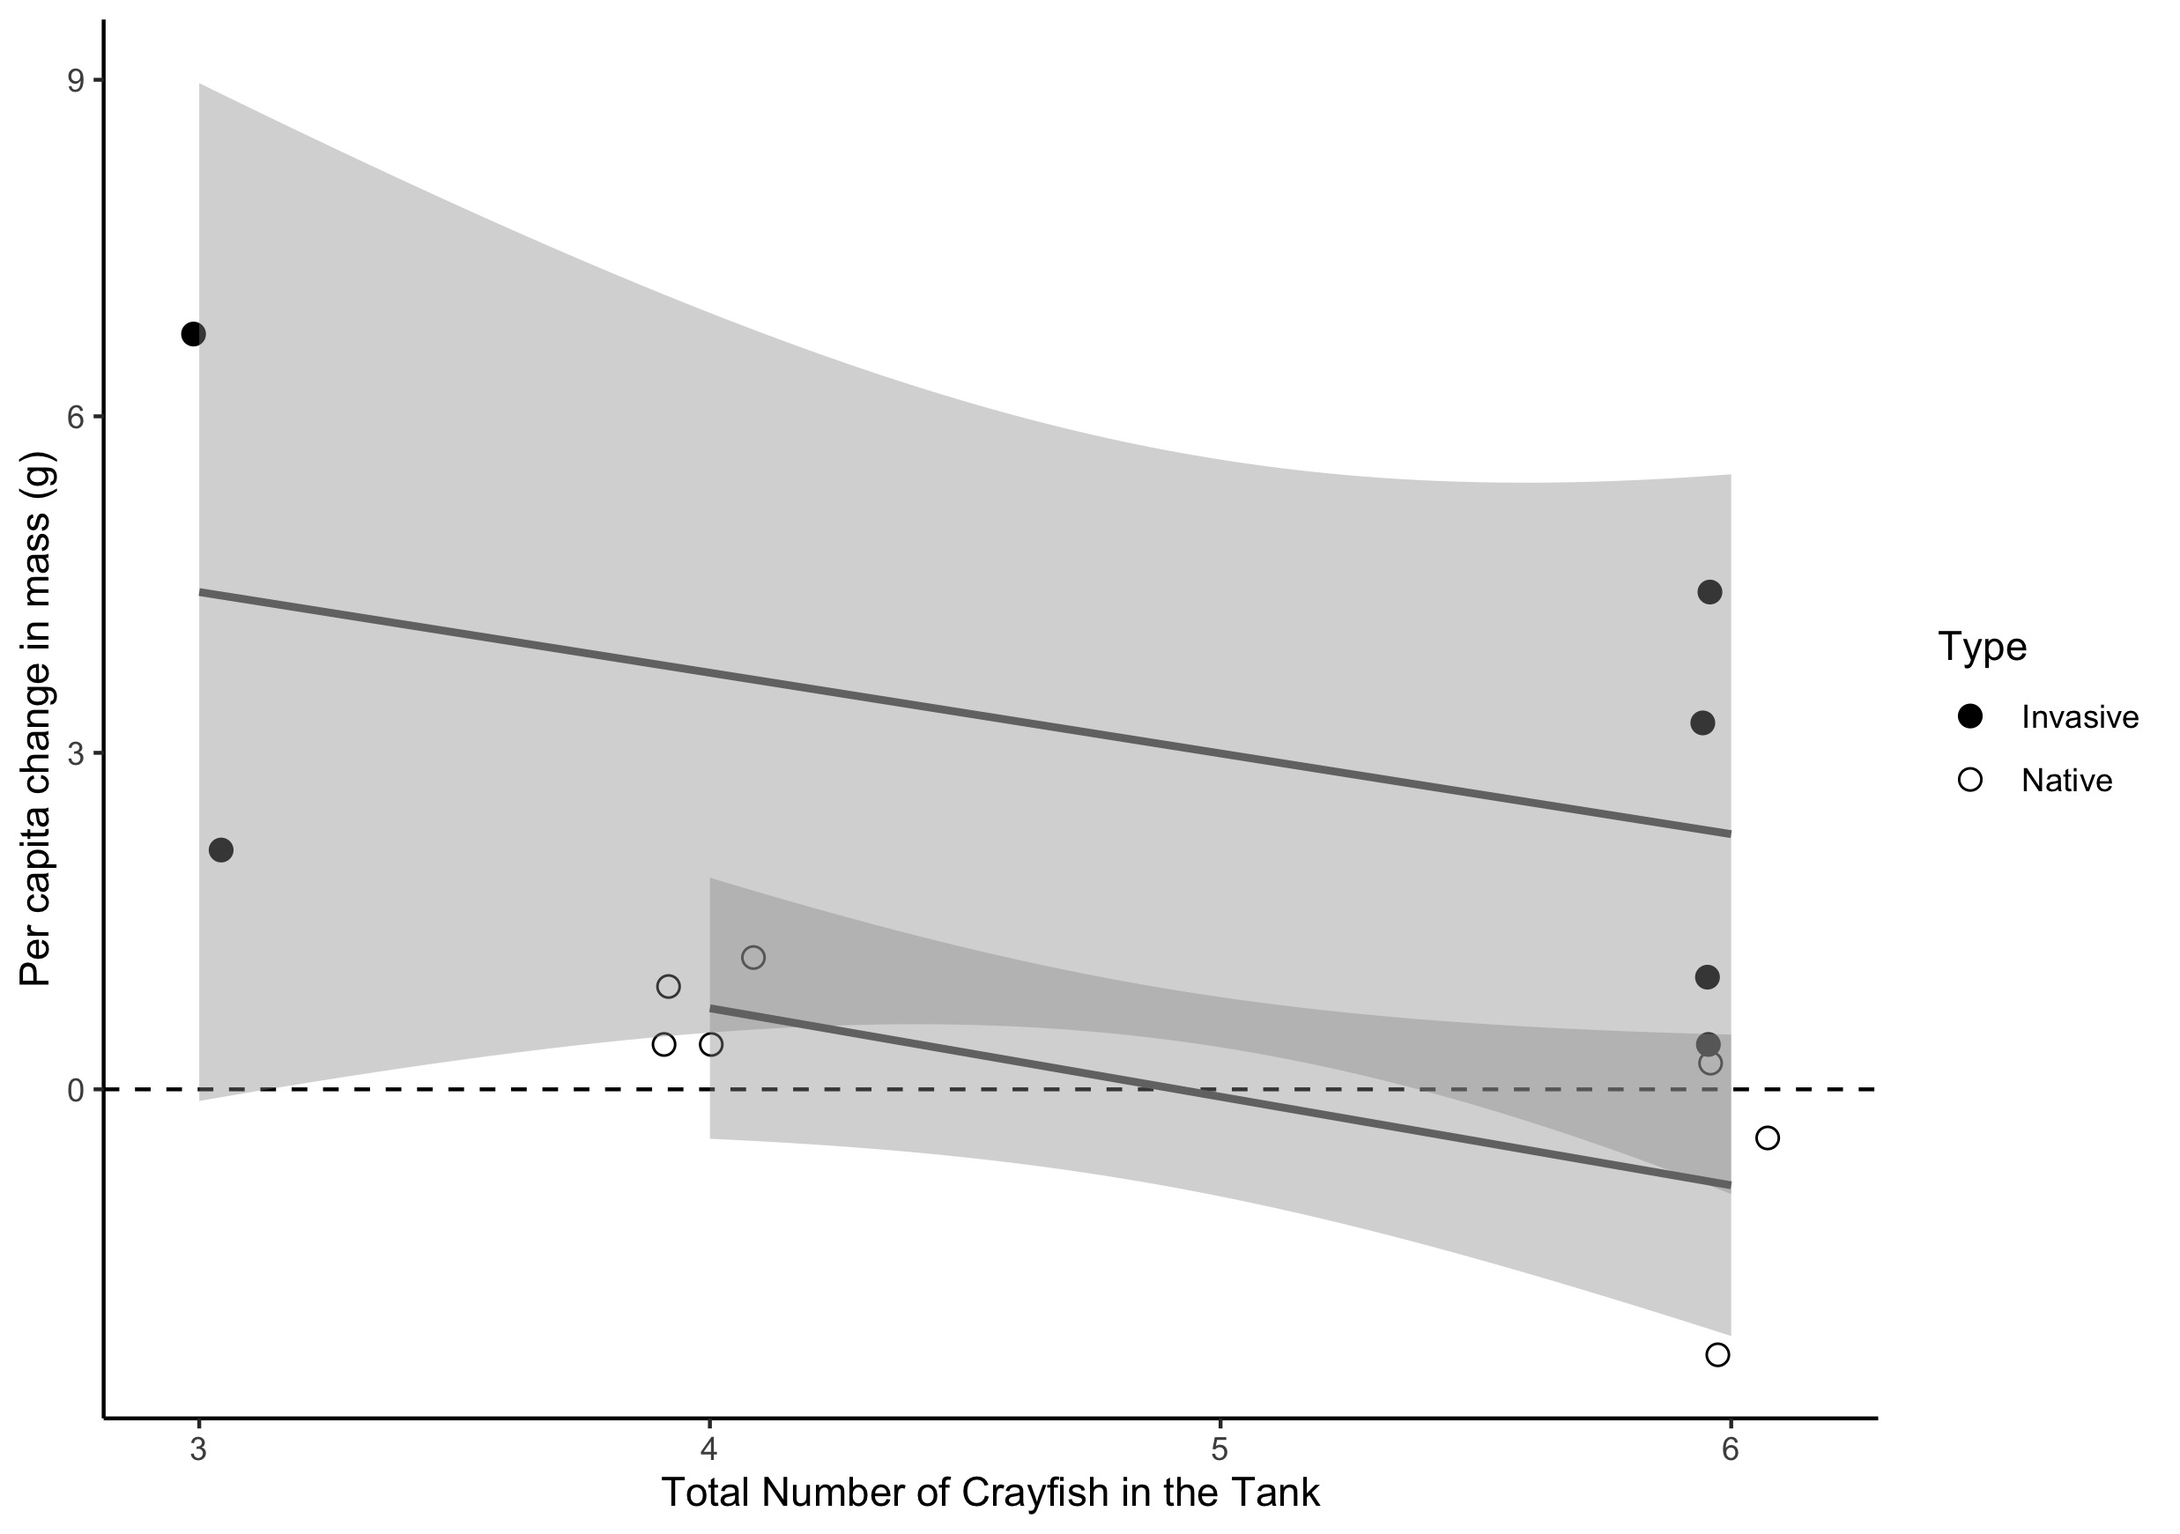
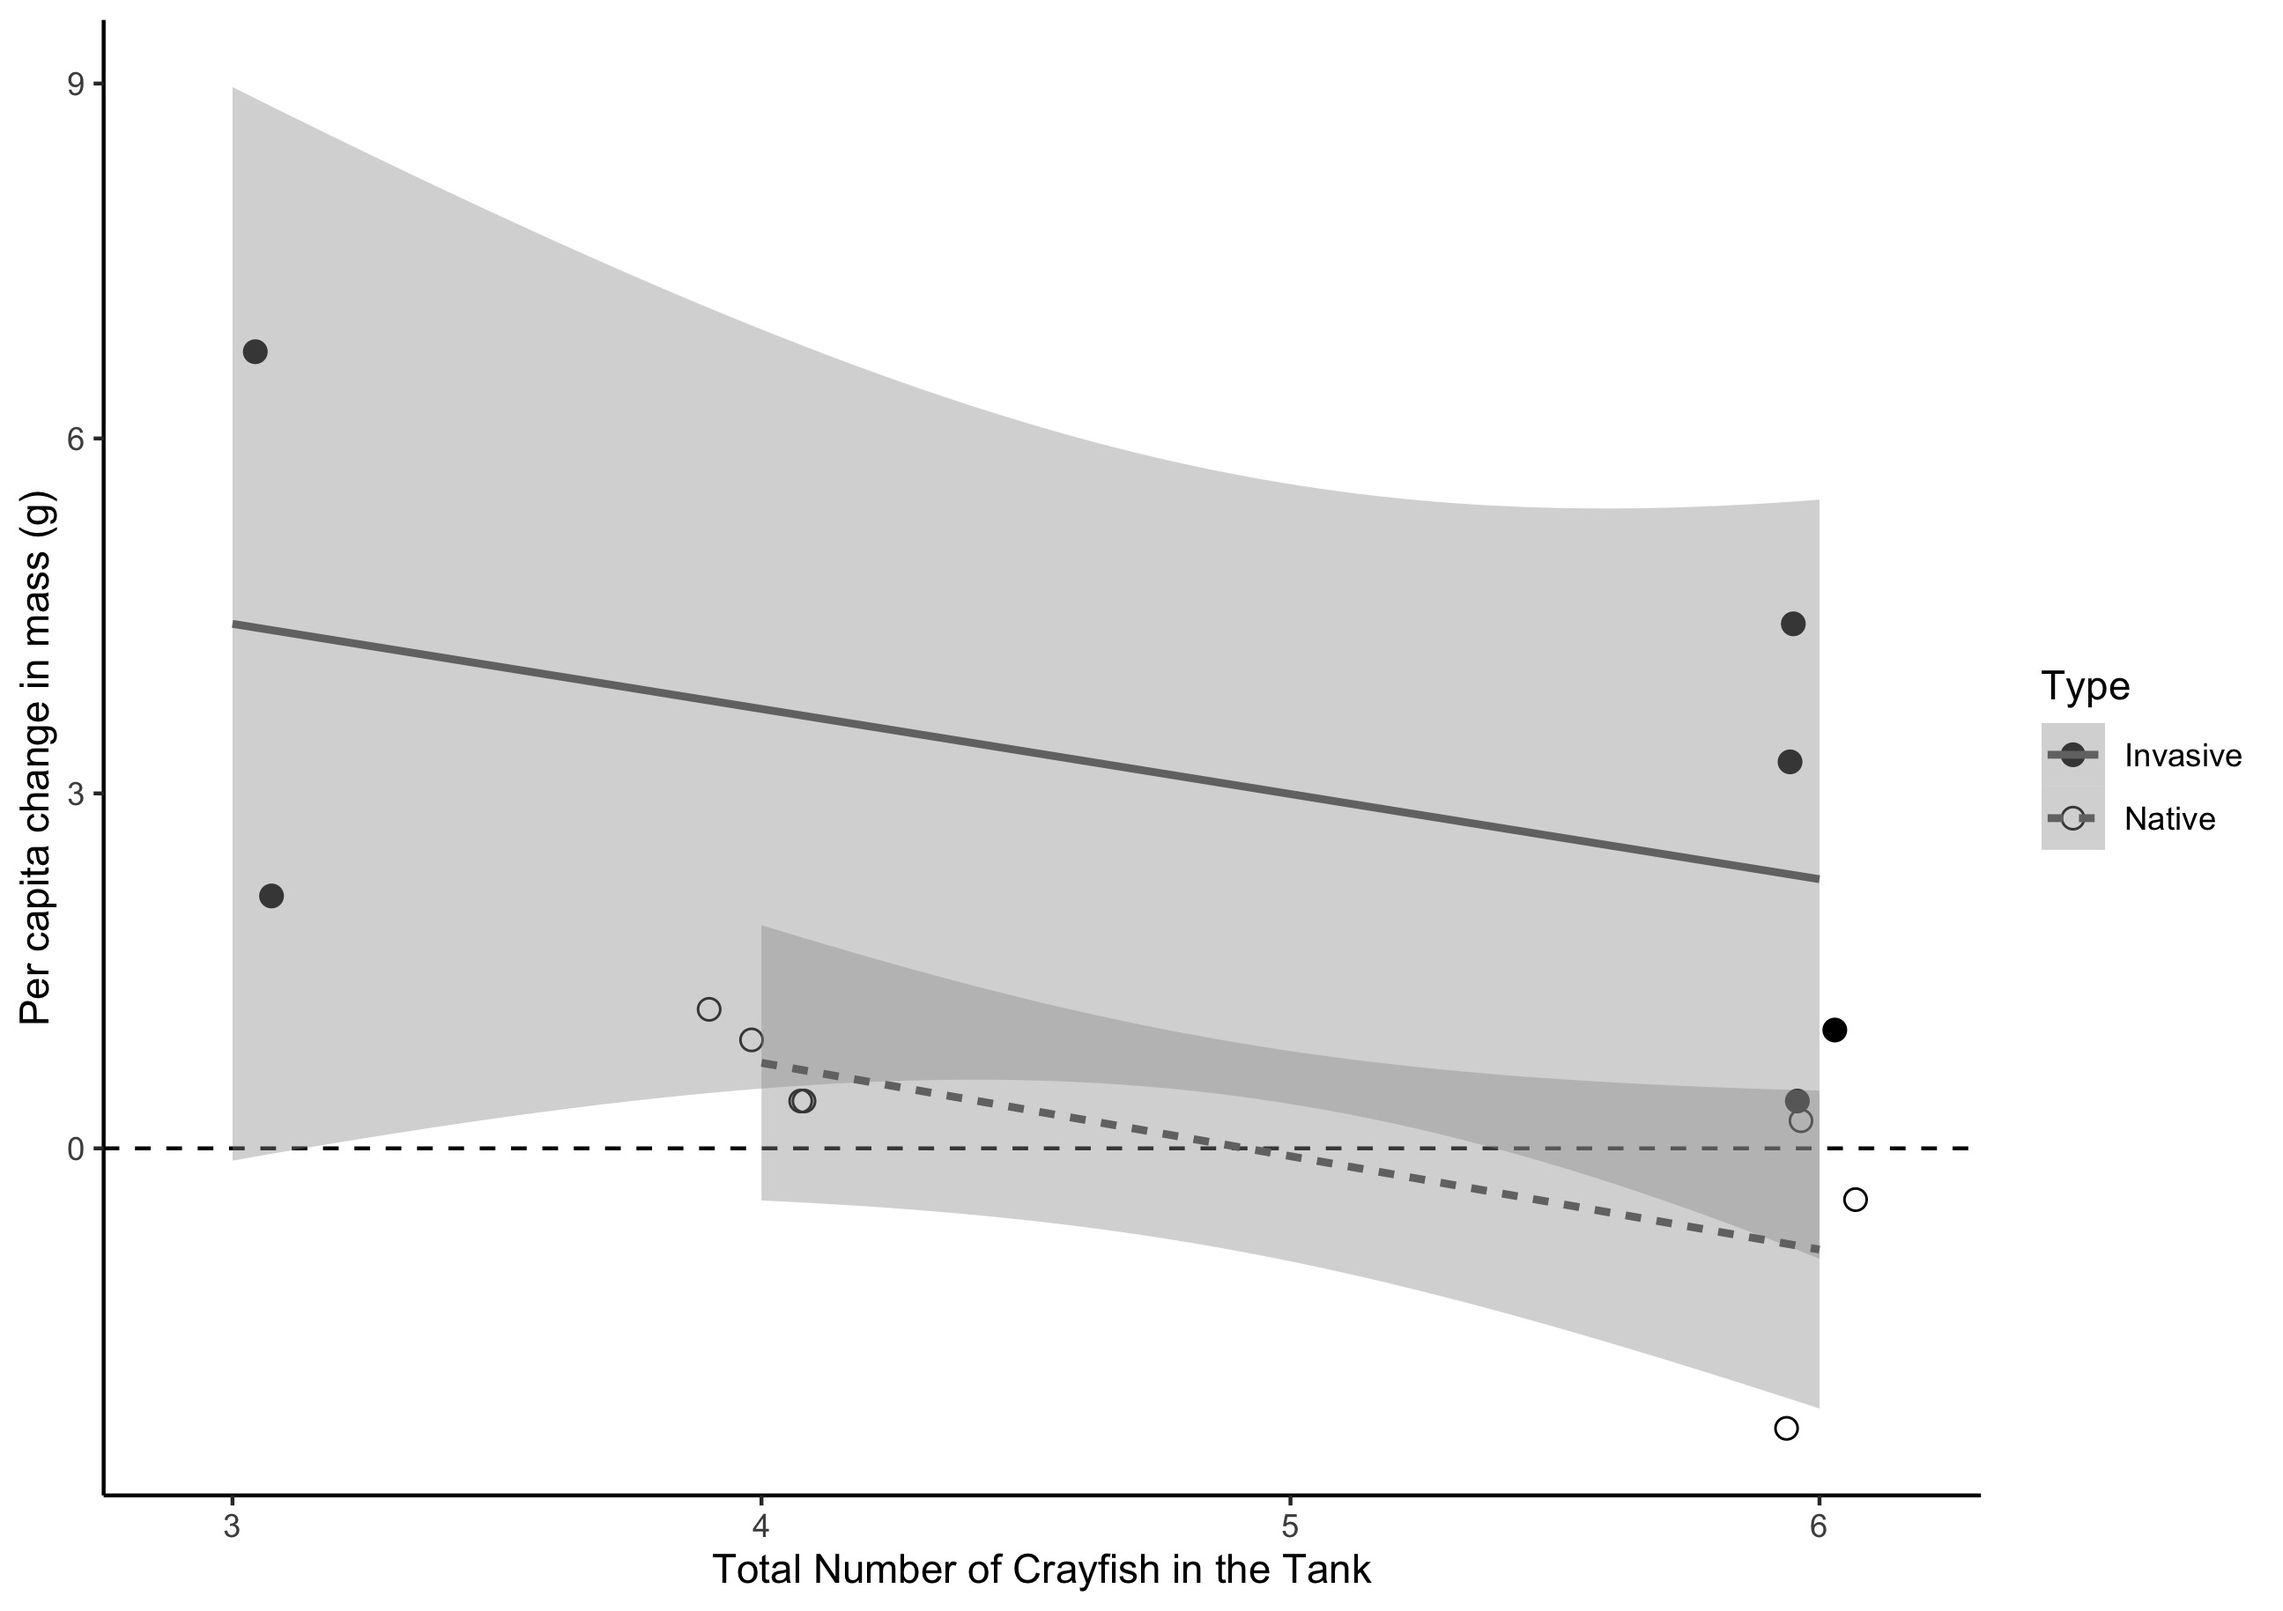
work on analysis

diff --git a/lab_notebook/analysis/crayfish_mass_change.md b/lab_notebook/analysis/crayfish_mass_change.md
@@ -374,7 +374,9 @@ The model uses the estimated change in per capita mass (`per.capita.delta.mass`)
     	mapping = aes(
     		y = per.capita.delta.mass,
     		x = Total.Abundance, 
-    		shape = Type)
+    		shape = Type,
+    		linetype = Type
+    		)
     	) +
     	   geom_hline(
     	     yintercept = 0,
@@ -458,13 +460,19 @@ The model uses the estimated change in per capita mass (`per.capita.delta.mass`)
     
 In the 2015 experiment there was no significant effect of the total abundance of crayfish in the tank at the end of the experiment on the per capita change in crayfish mass (p = 0.1724). The effect of total abundance was determined for the grand mean of all crayfish but the lack of a significant interaction (p = 0.9533) indicates that the two species did not differ in their response to the total abundance of crayfish.
 
-The mean (+/- 1 SD) estimated change in mass of a single invasive crayfish was 2.99 (+/- 2.35) g, while the mean estimated change in mass of a single native crayfish was only 0.05 (+/- 1.18) g. However the difference was not significant (p = 0.4192) so we do not have evidence that the invasive grew more than the native in the 2015 experiment.
+The mean (+/- 1 SD) per capita change in the invasive crayfish mass was 2.99 (+/- 2.35) g, while the mean per capita change in the native crayfish mass was only 0.05 (+/- 1.18) g. However this difference was not significant (p = 0.4192) so we do not have evidence that the invasive grew more than the native in the 2015 experiment.
     
 ## Survival (2015 Experiment)
 
 The model uses the proportion of crayfish that survive to the end of the experiment (`prop.surv`) and `Total.Abundance` and `Type` as the fixed effects and `Tank` as the random effect on which the error ie estimated.
 
-    (survival.tot.abundance.mod.2015 <- lmer(prop.surv ~ 1 + Total.Abundance * Type + (1|Tank) , data = cray.N, subset = Year == "2015"))
+    (survival.tot.abundance.mod.2015 <- 
+    		lmer(
+    			prop.surv ~ 1 + Total.Abundance * Type + (1|Tank),
+    			data = cray.N, 
+    			subset = Year == "2015"
+    			)
+    	)
     
     summary(survival.tot.abundance.mod.2015)
     anova(survival.tot.abundance.mod.2015)
@@ -489,6 +497,7 @@ The model uses the proportion of crayfish that survive to the end of the experim
     Total.Abundance:TypeNative  
     -0.14931  
     optimizer (nloptwrap) convergence code: 0 (OK) ; 0 optimizer warnings; 1 lme4 warnings 
+    
     # Summary of Results as a Regression Analysis
     
     summary(survival.tot.abundance.mod.2015)
@@ -537,21 +546,41 @@ The model uses the proportion of crayfish that survive to the end of the experim
     
 #### Plot of 2015 Experiment Proportion Surviving by Total Abundance
     
-    ggplot(subset(cray.N, Year == "2015"), mapping = aes(y = prop.surv, x = Total.Abundance, color = Type)) +
+    ggplot(
+    	subset(cray.N, Year == "2015"),
+    	mapping = aes(
+    		y = (prop.surv * 100),
+    		x = Total.Abundance, 
+    		shape = Type,
+    		linetype = Type
+    		)
+    	) +
     	       geom_hline(
     	       	yintercept = 0,
     	       	linetype = "dashed"
     	       ) +
     	       geom_point(
     	       	position = position_jitterdodge(
-    	       		dodge.width = 0.1,
-    	       		jitter.width = 0.2
-    	       	)
+    	       		dodge.width = 0.6,
+    	       		jitter.width = 0.3
+    	       	),
+    	       	size = 2.5
     	       	)+
              geom_smooth(
-               method = "lm"
+              method = "lm",
+             	color = "gray45"
              ) +
+    	scale_shape_manual(
+    		values = c(19, 1)
+    	)+
+	    	xlab(
+	    		"Total Number of Crayfish in the Tank"
+	    	)+
+	    	ylab(
+	    		"Percent Crayfish Survival"
+	    	)+
              theme_classic()
+    
     ggsave(filename = "prop.surv.by.abundance.2015.jpg", path = "./output/plots", dpi = 300)
     
 ![prop.surv.by.abundanceprop.surv.2015](../output/plots/prop.surv.by.abundance.2015.jpg)
@@ -584,9 +613,15 @@ A mean (+/- 1 SD) proportion of 0.944 (+/- 0.135) of the invasive crayfish survi
     
 ## Mass (2016 Experiment)
 
-The model uses the estimated change in the mass of a single crayfish (`ind.delta.mass`) as the response and `Total.Abundance` and `Type` as the fixed effects and `Tank` as the random effect on which the error ie estimated.
+The model uses the per capita change in crayfish mass (`per.capita.delta.mass`) from the 2016 experiment as the response and `Total.Abundance` and `Type` as the fixed effects and `Tank` as the random effect on which the error is estimated.
 
-    (delta.mass.tot.abundance.mod.2016 <- lmer(ind.delta.mass ~ 1 + Total.Abundance * Type + (1|Tank) , data = cray.mean, subset = Year == "2016"))
+    (delta.mass.tot.abundance.mod.2016 <- 
+    		lmer(
+    			per.capita.delta.mass ~ 1 + Total.Abundance * Type + (1|Tank), 
+    			data = cray.mean, 
+    			subset = Year == "2016"
+    			)
+    	)
     
     summary(delta.mass.tot.abundance.mod.2016)
     anova(delta.mass.tot.abundance.mod.2016)
@@ -658,7 +693,15 @@ The model uses the estimated change in the mass of a single crayfish (`ind.delta
     
 ### Plot of the 2016 Experiment Change in Mass by Total Abundance
     
-    ggplot(subset(cray.mean, Year == "2016"), mapping = aes(y = ind.delta.mass, x = Total.Abundance, color = Type)) +
+    ggplot(
+    	subset(cray.mean, Year == "2016"), 
+    	mapping = aes(
+    		y = per.capita.delta.mass, 
+    		x = Total.Abundance, 
+    		shape = Type,
+    		linetype = Type
+    		)
+    	) +
     	       geom_hline(
     	       	yintercept = 0,
     	       	linetype = "dashed"
@@ -667,15 +710,27 @@ The model uses the estimated change in the mass of a single crayfish (`ind.delta
     	       	position = position_jitterdodge(
     	       		dodge.width = 0.1,
     	       		jitter.width = 0.2
-    	       	)
+    	       	),
+    	       	size = 2.5
     	       	)+
              geom_smooth(
-               method = "lm"
+               method = "lm",
+             	color = "gray45"
              ) +
-             theme_classic()
-    ggsave(filename = "ind_delta_mass_by_abundance_2016.jpg", path = "./output/plots", dpi = 300)
+    	scale_shape_manual(
+    		values = c(19, 1)
+    	)+
+	    	xlab(
+	    		"Total Number of Crayfish in a Tank"
+	    	)+
+	    	ylab(
+	    		"Per capita change in mass (g)"
+	    	)+
+        theme_classic()
     
-![ind_delta_mass_by_abundance_2016](../output/plots/ind_delta_mass_by_abundance_2016.jpg)
+    ggsave(filename = "per_capita_delta_mass_by_abundance_2016.jpg", path = "./output/plots", dpi = 300)
+    
+![per_capita__delta_mass_by_abundance_2016](../output/plots/per_capita_delta_mass_by_abundance_2016.jpg)
 
 ### Plot of the 2016 Experiment Change in Mass by Treatment
     
